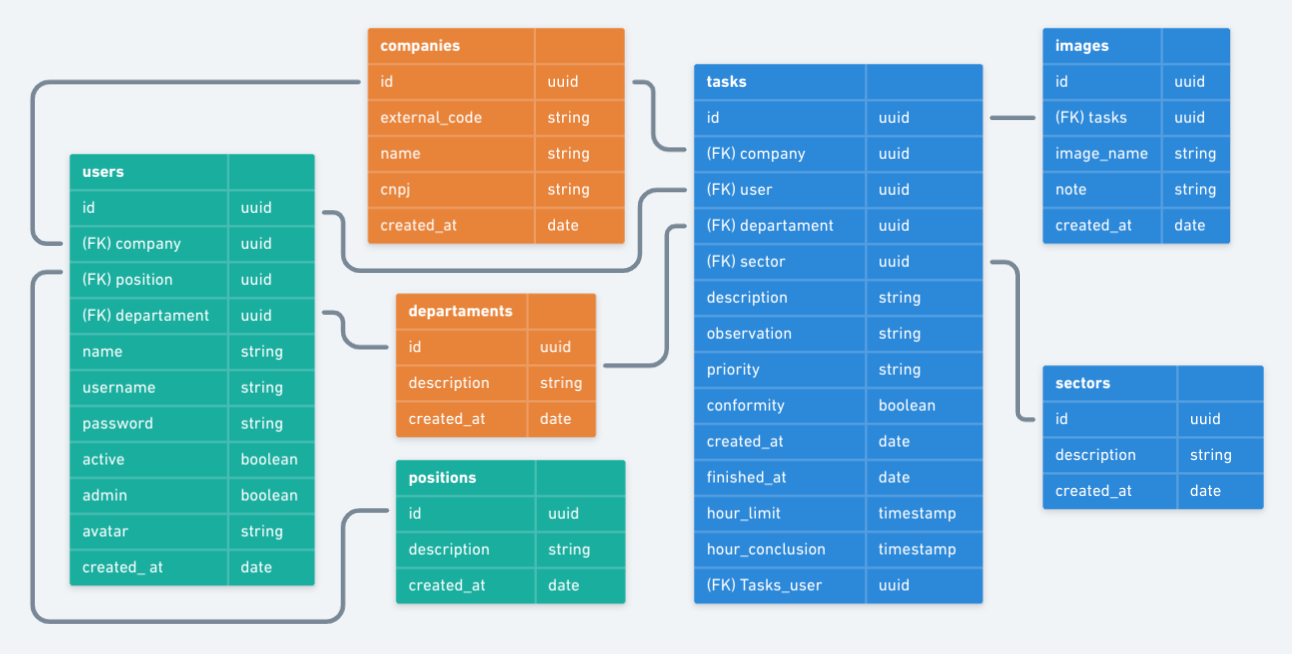
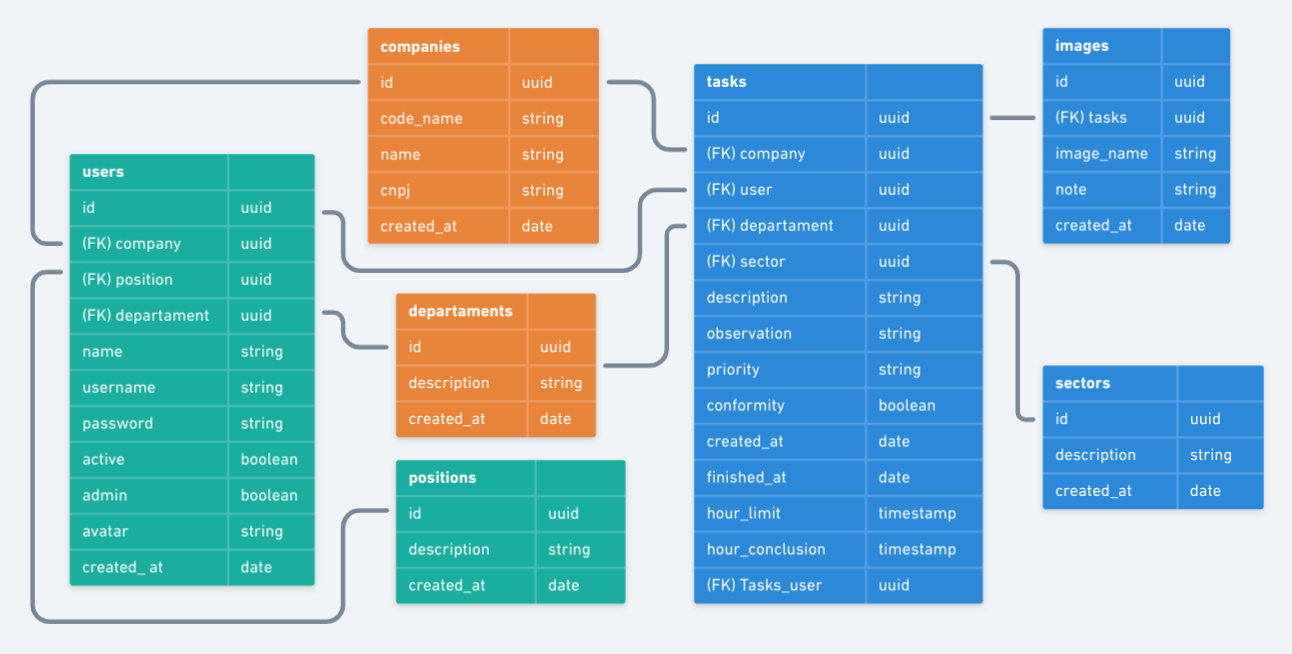
Creating companies

diff --git a/src/modules/accounts/infra/typeorm/repositories/CompaniesRepository.ts b/src/modules/accounts/infra/typeorm/repositories/CompaniesRepository.ts
@@ -1,0 +1,50 @@
+import { getRepository, Repository } from 'typeorm';
+
+import { ICreateCompanyDTO } from '@modules/accounts/dtos/ICreateCompanyDTO';
+import { ICompaniesRepository } from '@modules/accounts/repositories/ICompaniesRepository';
+
+import { Company } from '../entities/Company';
+
+class CompaniesRepository implements ICompaniesRepository {
+  private repository: Repository<Company>;
+
+  constructor() {
+    this.repository = getRepository(Company);
+  }
+
+  async create({
+    id,
+    code_name,
+    name,
+    cnpj,
+  }: ICreateCompanyDTO): Promise<Company> {
+    const company = await this.repository.create({
+      id,
+      code_name,
+      name,
+      cnpj,
+    });
+
+    const newCompany = await this.repository.save(company);
+
+    return newCompany;
+  }
+
+  async findById(id: string): Promise<Company> {
+    const company = await this.repository.findOne(id);
+
+    return company;
+  }
+
+  async deleteById(id: string): Promise<void> {
+    this.repository.delete(id);
+  }
+
+  async findByCNPJ(cnpj: string): Promise<Company> {
+    const company = this.repository.findOne({ cnpj });
+
+    return company;
+  }
+}
+
+export { CompaniesRepository };

diff --git a/src/modules/accounts/useCases/createCompany/CreateCompanyUseCase.ts b/src/modules/accounts/useCases/createCompany/CreateCompanyUseCase.ts
@@ -1,0 +1,41 @@
+import { inject, injectable } from 'tsyringe';
+
+import { Company } from '@modules/accounts/infra/typeorm/entities/Company';
+import { ICompaniesRepository } from '@modules/accounts/repositories/ICompaniesRepository';
+import { AppError } from '@shared/errors/AppError';
+
+interface IRequest {
+  id: string;
+  code_name: string;
+  name: string;
+  cnpj: string;
+}
+
+@injectable()
+class CreateCompanyUseCase {
+  constructor(
+    @inject('CompaniesRepository')
+    private companiesRepository: ICompaniesRepository,
+  ) {}
+
+  async execute({ id, code_name, name, cnpj }: IRequest): Promise<Company> {
+    const companyAlreadyExists = await this.companiesRepository.findByCNPJ(
+      cnpj,
+    );
+
+    if (companyAlreadyExists && !id) {
+      throw new AppError('Company already exists!');
+    }
+
+    const company = await this.companiesRepository.create({
+      id,
+      code_name,
+      name,
+      cnpj,
+    });
+
+    return company;
+  }
+}
+
+export { CreateCompanyUseCase };

diff --git a/src/shared/infra/typeorm/migrations/1625441004896-companies.ts b/src/shared/infra/typeorm/migrations/1625441004896-companies.ts
@@ -1,0 +1,39 @@
+import { MigrationInterface, QueryRunner, Table } from 'typeorm';
+
+export class companies1625441004896 implements MigrationInterface {
+  public async up(queryRunner: QueryRunner): Promise<void> {
+    await queryRunner.createTable(
+      new Table({
+        name: 'companies',
+        columns: [
+          {
+            name: 'id',
+            type: 'uuid',
+            isPrimary: true,
+          },
+          {
+            name: 'code_name',
+            type: 'varchar',
+          },
+          {
+            name: 'name',
+            type: 'varchar',
+          },
+          {
+            name: 'cnpj',
+            type: 'varchar',
+          },
+          {
+            name: 'created_at',
+            type: 'timestamp',
+            default: 'now()',
+          },
+        ],
+      }),
+    );
+  }
+
+  public async down(queryRunner: QueryRunner): Promise<void> {
+    await queryRunner.dropTable('companies');
+  }
+}

diff --git a/src/shared/container/index.ts b/src/shared/container/index.ts
@@ -1,10 +1,17 @@
 import { container } from 'tsyringe';
 
 import '@shared/container/providers';
+import { CompaniesRepository } from '@modules/accounts/infra/typeorm/repositories/CompaniesRepository';
+import { ICompaniesRepository } from '@modules/accounts/repositories/ICompaniesRepository';
 import { SectorsRepository } from '@modules/tasks/infra/typeorm/repositories/SectorsRepository';
 import { ISectorsRepository } from '@modules/tasks/repositories/ISectorsRepository';
 
 container.registerSingleton<ISectorsRepository>(
   'SectorsRepository',
   SectorsRepository,
+);
+
+container.registerSingleton<ICompaniesRepository>(
+  'CompaniesRepository',
+  CompaniesRepository,
 );

diff --git a/src/modules/accounts/useCases/createCompany/CreateCompnayController.ts b/src/modules/accounts/useCases/createCompany/CreateCompnayController.ts
@@ -1,0 +1,23 @@
+import { Request, Response } from 'express';
+import { container } from 'tsyringe';
+
+import { CreateCompanyUseCase } from './CreateCompanyUseCase';
+
+class CreateCompanyController {
+  async handle(request: Request, response: Response): Promise<Response> {
+    const { id, code_name, name, cnpj } = request.body;
+
+    const createCompanyUseCase = container.resolve(CreateCompanyUseCase);
+
+    const company = await createCompanyUseCase.execute({
+      id,
+      code_name,
+      name,
+      cnpj,
+    });
+
+    return response.status(201).json(company);
+  }
+}
+
+export { CreateCompanyController };

diff --git a/src/modules/accounts/infra/typeorm/entities/Company.ts b/src/modules/accounts/infra/typeorm/entities/Company.ts
@@ -1,0 +1,28 @@
+import { Column, CreateDateColumn, Entity, PrimaryColumn } from 'typeorm';
+import { v4 as uuidv4 } from 'uuid';
+
+@Entity('companies')
+class Company {
+  @PrimaryColumn()
+  id: string;
+
+  @Column()
+  code_name: string;
+
+  @Column()
+  name: string;
+
+  @Column()
+  cnpj: string;
+
+  @CreateDateColumn()
+  created_at: Date;
+
+  constructor() {
+    if (!this.id) {
+      this.id = uuidv4();
+    }
+  }
+}
+
+export { Company };

diff --git a/src/modules/accounts/repositories/ICompaniesRepository.ts b/src/modules/accounts/repositories/ICompaniesRepository.ts
@@ -1,0 +1,11 @@
+import { ICreateCompanyDTO } from '../dtos/ICreateCompanyDTO';
+import { Company } from '../infra/typeorm/entities/Company';
+
+interface ICompaniesRepository {
+  create(data: ICreateCompanyDTO): Promise<Company>;
+  findById(id: string): Promise<Company>;
+  findByCNPJ(cnpj: string): Promise<Company>;
+  deleteById(id: string): Promise<void>;
+}
+
+export { ICompaniesRepository };

diff --git a/src/shared/infra/http/routes/company.routes.ts b/src/shared/infra/http/routes/company.routes.ts
@@ -1,0 +1,11 @@
+import { Router } from 'express';
+
+import { CreateCompanyController } from '@modules/accounts/useCases/createCompany/CreateCompnayController';
+
+const createCompanyController = new CreateCompanyController();
+
+const companyRoutes = Router();
+
+companyRoutes.post('/', createCompanyController.handle);
+
+export { companyRoutes };

diff --git a/src/shared/infra/http/routes/index.ts b/src/shared/infra/http/routes/index.ts
@@ -1,9 +1,11 @@
 import { Router } from 'express';
 
+import { companyRoutes } from './company.routes';
 import { sectorRoutes } from './sector.routes';
 
 const router = Router();
 
 router.use('/sector', sectorRoutes);
+router.use('/company', companyRoutes);
 
 export { router };

diff --git a/src/modules/accounts/dtos/ICreateCompanyDTO.ts b/src/modules/accounts/dtos/ICreateCompanyDTO.ts
@@ -1,0 +1,8 @@
+interface ICreateCompanyDTO {
+  code_name: string;
+  name: string;
+  cnpj: string;
+  id?: string;
+}
+
+export { ICreateCompanyDTO };

diff --git a/README.md b/README.md
@@ -26,10 +26,11 @@ Combinando as melhores práticas de SOLID, testes unitários e testes de integra
 
 ## Cadastro de Empresas
 **Requisitos Funcionais (RF)**
-- [ ] Deve ser possível cadastrar uma nova empresa.
+- [x] Deve ser possível cadastrar uma nova empresa.
 
 **Regra de Negócios (RN)**
 - [ ] Apenas os usuários administradores poderão cadastrar novas empresas.
+- [x] Não deve ser possível cadastrar um CNPJ já existente.
 
 ## Cadastro de Departamentos
 **Requisitos Funcionais (RF)**
